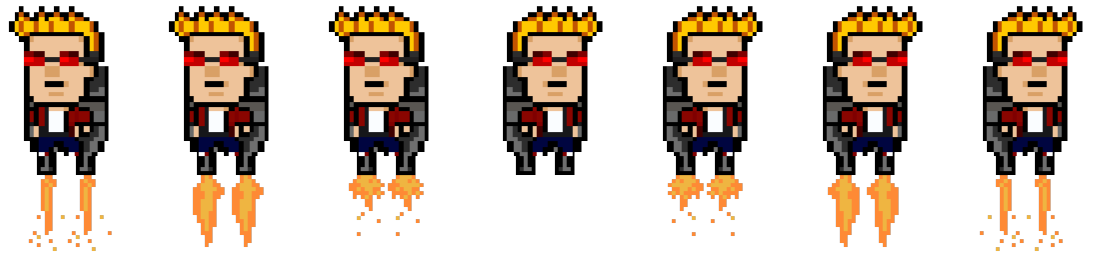
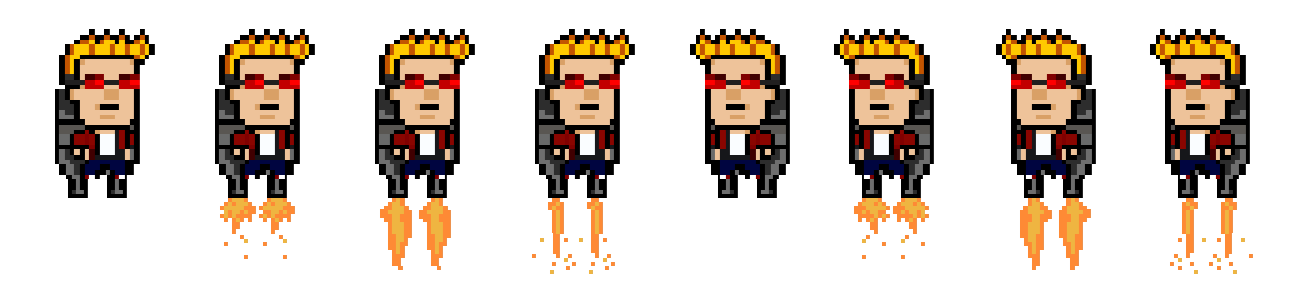
Juego casi terminado

diff --git a/scenes/Game.js b/scenes/Game.js
@@ -8,9 +8,10 @@ export default class Game extends Phaser.Scene {
   init() {
     this.firstMove = true;
     this.platformTouched = false;
-    this.score = -1;
+    this.score = 0;
     this.timeLeft = 30; 
     this.gameOver = false;
+    this.maxScore = localStorage.getItem('maxScore') || 0;
   }
 
   create() {
@@ -30,18 +31,7 @@ export default class Game extends Phaser.Scene {
     for (let i = 0; i < 10; i++) {
       let platform = this.platformGroup.create(0, 0, "platform");
       platform.setImmovable(true);
-      this.positionPlatform(platform, i+1);
-
-      // if (Phaser.Math.Between(0, 9) < 1) { 
-      //   let powerUp = this.powerUpGroup.create(platform.x, platform.y - platform.displayHeight / 2 - 20, "watch");
-      //   powerUp.setScale(1.5);
-      //   powerUp.setGravityY(1200);
-      // }
-      // if (Phaser.Math.Between(0, 9) < 3) { 
-      //   let powerUp = this.powerUpGroup.create(platform.x, platform.y - platform.displayHeight / 2 - 20, "spike");
-      //   powerUp.setScale(1.5);
-      //   powerUp.setGravityY(1200);
-      // }
+      this.positionPlatform(platform, i + 1);
 
       if (i === randomIndex) {
         this.tweens.add({
@@ -53,7 +43,6 @@ export default class Game extends Phaser.Scene {
           repeat: -1 
         });
       }
-      
     }
 
     const playerStartY = this.game.config.height - 150; 
@@ -62,20 +51,20 @@ export default class Game extends Phaser.Scene {
     this.player.setGravityY(gameOptions.gameGravity);
 
     this.anims.create({
-      key: 'jumpLeft',
+      key: 'jumpRight',
       frames: this.anims.generateFrameNumbers('player', { 
-        start: 4, 
-        end: 8
+        start: 0, 
+        end: 3
       }),
       frameRate: 8,
       repeat: 0
     });
 
     this.anims.create({
-      key: 'jumpRight',
+      key: 'jumpLeft',
       frames: this.anims.generateFrameNumbers('player', { 
-        start: 2, 
-        end: 0
+        start: 5, 
+        end: 10
       }),
       frameRate: 8,
       repeat: 0
@@ -86,24 +75,22 @@ export default class Game extends Phaser.Scene {
     this.keyW = this.input.keyboard.addKey(Phaser.Input.Keyboard.KeyCodes.W);
     this.keySPACE = this.input.keyboard.addKey(Phaser.Input.Keyboard.KeyCodes.SPACE);
 
-    this.textTimer = this.add.text(10, 10, "60", {
-      fontSize: "32px",
-      fill: "#fff",
+    this.textTimer = this.add.text(10, 10, "Time : 30 ", {
+      fontSize: "40px",
+      fill: "#ffd045",
     });
 
-    this.textScore = this.add.text(this.game.config.width - 10, 10, "0", {
-      fontSize: "32px",
-      fill: "#fff",
+    this.textScore = this.add.text(this.game.config.width - 10, 10, "Score: 0", {
+      fontSize: "40px",
+      fill: "#ffd045",
     }).setOrigin(1, 0);
-
-    this.textFirstMove = this.add.text(positionX, 500, "Presiona A, D para moverte y W para saltar", {
-      fontSize: "32px",
-      fill: "#fff",
-    }).setOrigin(0.5, 0);
+  
 
     this.physics.add.collider(this.platformGroup, this.player, this.handleCollision, null, this);
     this.physics.add.collider(this.plataformaInicial, this.player, this.handleCollision, null, this);
     this.physics.add.collider(this.platformGroup, this.powerUpGroup);
+
+    this.physics.add.overlap(this.player, this.powerUpGroup, this.collectPowerUp, null, this);
 
     this.addTimer();
   }
@@ -115,34 +102,23 @@ export default class Game extends Phaser.Scene {
       platform.y += gameSpeedY;
 
       if (platform.getBounds().bottom > this.game.config.height) {
-        console.log("update", platform.y)
         this.positionPlatform(platform);
       }
     });
-
-
-
-    // if (this.platformGroup.getChildren().length < 10) {
-    //   for (let i = this.platformGroup.getChildren().length; i < 10; i++) {
-    //     let platform = this.platformGroup.create(0, 0, "platform");
-    //     platform.setImmovable(true);
-    //     this.positionPlatform(platform);
-    //   }
-    // }
 
     this.moveParallax();
 
     if (this.firstMove) {
       this.firstMove = false;
-      this.textFirstMove.setText("");
+      
     }
 
     if (this.keyA.isDown) {
       this.player.setVelocityX(-gameOptions.heroSpeed);
-      this.player.anims.play("jumpRight") 
+      this.player.anims.play("jumpLeft", true);
     } else if (this.keyD.isDown) {
       this.player.setVelocityX(gameOptions.heroSpeed);
-      this.player.anims.play("jumpLeft") 
+      this.player.anims.play("jumpRight", true);
     } else {
       this.player.setVelocityX(0); 
     }
@@ -150,14 +126,38 @@ export default class Game extends Phaser.Scene {
     if (this.keyW.isDown && this.player.body.touching.down) {
       this.player.setVelocityY(-gameOptions.jumpForce); 
 
-  
       if (this.plataformaInicial) {
         this.plataformaInicial.destroy();
       }
+
+      this.handleJump();
     }
 
     if (this.player.y > this.game.config.height || this.player.y < 0) {
-      this.scene.start("gameOver");
+      this.gameOverHandler("fall");
+    }
+    
+  }
+
+  handleJump() {
+    this.platformTouched = false; 
+    this.score += 100; 
+    this.updateScoreDisplay(); 
+}
+
+
+  gameOverHandler(cause) {
+    // Mostrar pantalla de gameOver con puntaje y verificar récord
+    this.scene.start("gameOver", {
+        cause: cause,
+        score: this.score,
+        maxScore: this.maxScore
+    });
+
+    // Actualizar puntaje máximo si se estableció un nuevo récord
+    if (this.score > this.maxScore) {
+        this.maxScore = this.score;
+        localStorage.setItem('maxScore', this.maxScore);
     }
   }
 
@@ -185,17 +185,17 @@ export default class Game extends Phaser.Scene {
   }
 
   positionPlatform(platform, index = 0) {
-    const altura = this.getHighesPlatform() === 0 ? index*300 : this.getHighesPlatform();
-    platform.y =  altura - this.randomValue(gameOptions.platformVerticalDistanceRange);
-    console.log("posicion", platform.y)
+    const altura = this.getHighesPlatform() === 0 ? index * 300 : this.getHighesPlatform();
+    platform.y = altura - this.randomValue(gameOptions.platformVerticalDistanceRange);
     platform.x = this.game.config.width / 2 + this.randomValue(gameOptions.platformHorizontalDistanceRange) * Phaser.Math.RND.sign();
     platform.displayWidth = gameOptions.platformLengthRange[1];
+    
     if (Phaser.Math.Between(0, 9) < 1) { 
       let powerUp = this.powerUpGroup.create(platform.x, platform.y - platform.displayHeight / 2 - 20, "watch");
       powerUp.setScale(1.5);
       powerUp.setGravityY(1200);
     }
-    if (Phaser.Math.Between(0, 9) < 3) { 
+    if (Phaser.Math.Between(0, 9) < 1) { 
       let powerUp = this.powerUpGroup.create(platform.x, platform.y - platform.displayHeight / 2 - 20, "spike");
       powerUp.setScale(1.5);
       powerUp.setGravityY(1200);
@@ -206,16 +206,6 @@ export default class Game extends Phaser.Scene {
     return Phaser.Math.Between(a[0], a[1]);
   }
 
-  // getLowestPlatform() {
-  //   let lowestPlatform = 0;
-  //   const hijos = this.platformGroup.getChildren();
-
-  //   hijos.forEach(function (platform) {
-  //     lowestPlatform = Math.max(lowestPlatform, platform.y);
-  //   });
-  //   return lowestPlatform;
-  // }
-  
   getHighesPlatform() {
     let highesPlatform = this.game.config.height;
     const hijos = this.platformGroup.getChildren();
@@ -239,19 +229,38 @@ export default class Game extends Phaser.Scene {
     this.timeLeft--;
     this.textTimer.setText(this.timeLeft);
     if (this.timeLeft <= 0) {
-      this.scene.start("gameOver");
+      this.gameOverHandler("time");
     }
   }
 
   handleCollision(player, platform) {
     if (!this.platformTouched) {
-      this.platformTouched = true;
-      this.score += 1;
-      this.textScore.setText(this.score);
+        this.platformTouched = true;
+        this.score += 100; 
+        this.updateScoreDisplay();
     }
   }
+  updateScoreDisplay() {
+    this.tweens.addCounter({
+        from: parseInt(this.textScore.text.split(': ')[1]),
+        to: this.score,
+        duration: 500,
+        onUpdate: (tween) => {
+            this.textScore.setText('Score: ' + Math.floor(tween.getValue()));
+        }
+    });
+  }
+
+
+
+
 
   collectPowerUp(player, powerUp) {
-    powerUp.disableBody(true, true); 
+    if (powerUp.texture.key === "watch") {
+      this.timeLeft += 10;
+      powerUp.destroy();
+    } else if (powerUp.texture.key === "spike") {
+      this.gameOverHandler("spike");
+    }
   }
 }

diff --git a/scenes/gameOver.js b/scenes/gameOver.js
@@ -1,29 +1,52 @@
 export default class gameOver extends Phaser.Scene {
     constructor() {
-        super("gameOver");
+      super("gameOver");
     }
   
-    create(){
-        this.add.image(750, 1334, 'sky').setOrigin(1);
-
-        this.add.text(400, 300, 'Game Over', { fontSize: '50px', fill: '#000000'}).setOrigin(0.5);
-
-        const restartButton = this.add.image(375, 800, 'restart').setOrigin(0.5);
-    
-        restartButton.setInteractive({ cursor: 'pointer' });
-        restartButton.setScale(0.4); 
-     
-        restartButton.on('pointerover', () => {
-            restartButton.setScale(0.35); 
-        });
-    
-        restartButton.on('pointerout', () => {
-            restartButton.setScale(0.4); 
-        });
-
-        restartButton.on('pointerdown', () => {
-        
-        this.scene.start('start'); 
-    }); 
+    init(data) {
+      this.causeOfDeath = data.cause;
+      this.score = data.score;
+      this.maxScore = data.maxScore;
     }
-}
+  
+    create() {
+      this.add.image(750, 1334, 'sky').setOrigin(1);
+
+      const centerX = this.cameras.main.centerX;
+      const centerY = this.cameras.main.centerY;
+
+      this.add.text(centerX, centerY, `Your Score: ${this.score}`, {
+        fontSize: "60px",
+        fill: "#ffd045",
+        align: "center"
+    }).setOrigin(0.5);
+    if (this.score > this.maxScore) {
+        this.add.text(centerX, centerY + 50, "New Record!", {
+            fontSize: "60px",
+            fill: "#ffd045",
+            align: "center"
+        }).setOrigin(0.5);
+    }
+  
+      let imageKey = this.causeOfDeath === "time" ? "time" : "died";
+      this.add.image(375, 300, imageKey).setOrigin(0.5);
+  
+      const restartButton = this.add.image(375, 900, 'restart').setOrigin(0.5);
+      
+      restartButton.setInteractive({ cursor: 'pointer' });
+      restartButton.setScale(0.4); 
+       
+      restartButton.on('pointerover', () => {
+        restartButton.setScale(0.35); 
+      });
+  
+      restartButton.on('pointerout', () => {
+        restartButton.setScale(0.4); 
+      });
+  
+      restartButton.on('pointerdown', () => {
+        this.scene.start('start'); 
+      });
+    }
+  }
+  

diff --git a/utils/gameOptions.js b/utils/gameOptions.js
@@ -4,7 +4,7 @@ export const gameOptions = {
     heroSpeed: 300, // velocidad del jugador, en pixeles por segundo
     jumpForce: 960, // fuerza del salto del jugador
     platformFixedLength: 130,
-    platformSpeed: 10, // velocidad de las plataformas, en pixeles por segundo
+    platformSpeed: 5, // velocidad de las plataformas, en pixeles por segundo
     platformLengthRange: [50, 150], // longitud de las plataformas, en pixeles
     platformHorizontalDistanceRange: [0, 250], // rango de distancia horizontal de la plataforma desde el centro del escenario, en pixeles
     platformVerticalDistanceRange: [150, 300] // rango de distancia vertical de la plataforma desde la plataforma anterior, en pixeles

diff --git a/scenes/Preload.js b/scenes/Preload.js
@@ -12,9 +12,11 @@ export default class Preload extends Phaser.Scene {
       this.load.image("title", "./public/assets/title.png")
       this.load.image("press", "./public/assets/press.png")
       this.load.image("any", "./public/assets/any.png")
+      this.load.image("died", "./public/assets/youdied.png")
+      this.load.image("time", "./public/assets/timeout.png")
       this.load.spritesheet("player", "./public/assets/player.png", {
-        frameWidth: 158,
-        frameHeight: 262
+        frameWidth: 163,
+        frameHeight: 285
       });
     }
   
